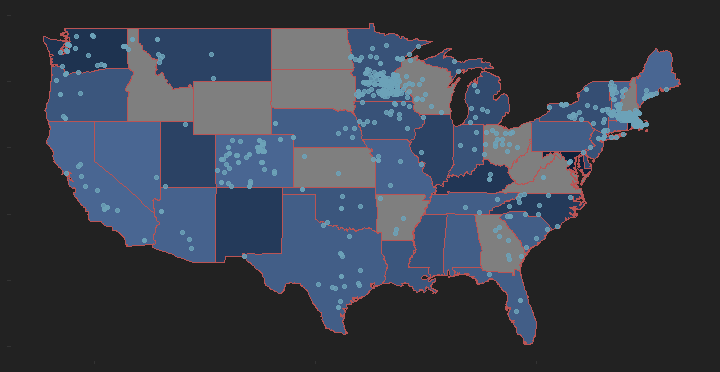
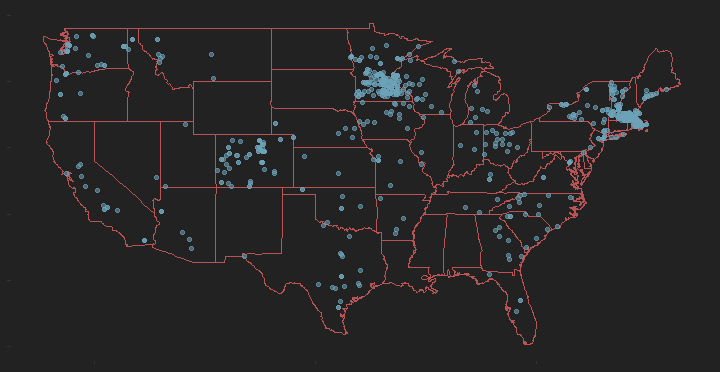
commit

diff --git a/docs/index.html b/docs/index.html
@@ -491,29 +491,6 @@ kwh_mean_state$State &lt;- tolower(kwh_mean_state$State)</code></pre>
 <li>Create custom themes (with and without legend)</li>
 </ol>
 <pre class="r"><code>#Create Custom theme 
-theme_black_nol&lt;- theme(
-  plot.background = element_rect(fill = &#39;#222222&#39;), 
-  panel.background = element_rect(fill = NA),
-  panel.border = element_rect(fill = NA), 
-  panel.grid = element_line(color = NA), 
-  axis.title = element_blank(), 
-  legend.position = &quot;none&quot;, 
-  plot.margin = unit(c(0,0,0,0),&quot;cm&quot;), 
-  axis.text = element_blank(), 
-  axis.line = element_blank()
-  )
-
-theme_black&lt;- theme(
-  plot.background = element_rect(fill = &#39;#222222&#39;), 
-  panel.background = element_rect(fill = NA),
-  panel.border = element_rect(fill = NA), 
-  panel.grid = element_line(color = NA), 
-  axis.title = element_blank(), 
-  plot.margin = unit(c(0,0,0,0),&quot;cm&quot;), 
-  axis.text = element_blank(), 
-  axis.line = element_blank()
-  )
-
 theme_black_blank&lt;- theme(
     panel.background = element_rect(fill = &quot;transparent&quot;), # bg of the panel
     plot.background = element_rect(fill = &quot;#222222&quot;, color = &quot;#222222&quot;), # bg of the plot
@@ -531,9 +508,7 @@ theme_black_blank&lt;- theme(
 <ol start="7" style="list-style-type: decimal">
 <li>Create spatial distribution plot to identify locations of projects</li>
 </ol>
-<pre class="r"><code>DSIRE_program_table1 &lt;- full_join(kwh_total_state, state_geom, by = c(&quot;State&quot; = &quot;region&quot;))
-
-#Plot just Community Locationsadd state geometry to DSIRE data to plot
+<pre class="r"><code>#Plot just Community Locationsadd state geometry to DSIRE data to plot
 plot1 &lt;- ggplot()+
   geom_polygon(data = state_geom, aes(x = long, y = lat, group = group ), fill = &#39;#222222&#39;, col = &quot;#ba5454&quot;)+
   coord_fixed(ratio = 1.2)+
@@ -561,26 +536,98 @@ plot3 &lt;- ggplot()+
   geom_point(NREL_Data, mapping = aes(x = Longitude , y = Latitude), col = &quot;#6ca2b8&quot;, alpha = .8)+
   theme_black_blank+
   scale_fill_gradient(low = &quot;#496692&quot;, high = &quot;#000E23&quot;)</code></pre>
+<ol start="10" style="list-style-type: decimal">
+<li>Create Scatter plot of Average Incentive Provided vs Total # of Installations</li>
+</ol>
+<pre class="r"><code>theme_black_scatter&lt;- theme(
+    panel.background = element_rect(fill = &quot;transparent&quot;), # bg of the panel
+    plot.background = element_rect(fill = &quot;#222222&quot;, color = &quot;#222222&quot;), # bg of the plot
+    panel.grid.major = element_blank(), # get rid of major grid
+    panel.grid.minor = element_blank(), # get rid of minor grid
+    legend.background = element_rect(fill = &quot;transparent&quot;), # get rid of legend bg
+    legend.box.background = element_rect(fill = &quot;transparent&quot;), # get rid of legend panel bg
+    panel.border = element_blank(), 
+    axis.title.x = element_text(color = &quot;white&quot;), 
+    axis.title.y = element_text(color = &quot;white&quot;),
+    axis.line = element_line(color = &quot;white&quot;),
+    axis.text.x = element_text(color = &quot;white&quot;),
+    axis.text.y = element_text(color = &quot;white&quot;),
+    legend.position = &quot;none&quot;,
+    plot.title = element_text(color = &quot;white&quot;, hjust = 0.5),
+    axis.ticks = element_line(color = &quot;white&quot;)
+) 
+
+Total_per_state &lt;- group_by(DSIRE_program_table2, State)%&gt;%
+  dplyr::summarise(Total =  n())
+
+DSIRE_program_table4 &lt;- full_join(kwh_mean_state, Total_per_state, by = c(&quot;State&quot; = &quot;State&quot;)) %&gt;%
+  filter(Average &lt; 20000)
+  
+plot4&lt;- ggplot(DSIRE_program_table4)+
+  geom_point(aes(x = Average, y = Total), col = &quot;#6ca2b8&quot;) +
+  theme_black_scatter + 
+  labs(title = &quot;Average Incentive vs Number of Installations&quot;)+
+  ylab(&quot;Total Number of Installations&quot;)+
+  xlab(&quot;Average Incentive ($)&quot;)</code></pre>
+<ol start="10" style="list-style-type: decimal">
+<li>Create Scatter plot of Total # of Incentives vs Total # of Installations</li>
+</ol>
+<pre class="r"><code>DSIRE_program_table5 &lt;- full_join(kwh_total_state, Total_per_state, by = c(&quot;State&quot; = &quot;State&quot;))
+names(DSIRE_program_table5) &lt;- c(&quot;&quot;,&quot;Total_Incentive&quot;, &quot;Total_Installation&quot;)
+
+plot5&lt;- ggplot(DSIRE_program_table5)+
+  geom_point(aes(x = Total_Incentive, y = Total_Installation), col = &quot;#6ca2b8&quot;) +
+  theme_black_scatter + 
+  labs(title = &quot;Total Number of Incentives vs Number of Installations&quot;)+
+  ylab(&quot;Number of Installations&quot;)+
+  xlab(&quot;Total Number of Incentives&quot;)</code></pre>
 <hr />
 </div>
 <div id="results" class="section level1">
 <h1>Results</h1>
-<div id="spatial-distibution-of-community-solar-installations---provided-by-nrel" class="section level3">
-<h3>Spatial Distibution of Community Solar Installations - Provided by NREL</h3>
-<p><img src="index_files/figure-html/unnamed-chunk-9-1.png" style="display: block; margin: auto;" /> <br> <br></p>
+<div id="spatial-plots" class="section level2">
+<h2>Spatial Plots</h2>
+<div id="spatial-distibution-of-community-solar-installations" class="section level3">
+<h3>Spatial Distibution of Community Solar Installations</h3>
+<p><img src="index_files/figure-html/unnamed-chunk-11-1.png" style="display: block; margin: auto;" /> <strong>Goal:</strong> Identify spatially where the installations exist.</p>
+<p><strong>Description:</strong> This plot displays community solar installations across the US.</p>
+<p><strong>Data Source:</strong> This data was retrieved from NREL. <br> <br> <br> <br></p>
 </div>
-<div id="spatial-distibution-of-community-solar-installations-w-incentives-shaded-per---provided-by-nrel-dsire-data" class="section level3">
-<h3>Spatial Distibution of Community Solar Installations w/ Incentives shaded per $ - Provided by NREL &amp; DSIRE data</h3>
-<p><img src="index_files/figure-html/unnamed-chunk-10-1.png" style="display: block; margin: auto;" /> <br> <br></p>
+<div id="spatial-distibution-of-community-solar-installations-w-incentives-shaded-per" class="section level3">
+<h3>Spatial Distibution of Community Solar Installations w/ Incentives shaded per $</h3>
+<p><img src="index_files/figure-html/unnamed-chunk-12-1.png" style="display: block; margin: auto;" /> <strong>Goal:</strong> Identify spatial relationship on where more money is awarded for incentives.</p>
+<p><strong>Description:</strong> This plot displays community solar installations across the US, with state shading representing money awarded for solar incentives. A larger amount of money provided through solar incentives is equal to a darker color.</p>
+<p><strong>Data Source:</strong> This data was retrieved from NREL &amp; DSIRE database. <br> <br> <br> <br></p>
 </div>
-<div id="spatial-distibution-of-community-solar-installations-w-incentives-shaded-per-quantity---provided-by-nrel-dsire-data" class="section level3">
-<h3>Spatial Distibution of Community Solar Installations w/ Incentives shaded per quantity - Provided by NREL &amp; DSIRE data</h3>
-<p><img src="index_files/figure-html/unnamed-chunk-11-1.png" style="display: block; margin: auto;" /></p>
+<div id="spatial-distibution-of-community-solar-installations-w-incentives-shaded-per-quantity" class="section level3">
+<h3>Spatial Distibution of Community Solar Installations w/ Incentives shaded per quantity</h3>
+<p><img src="index_files/figure-html/unnamed-chunk-13-1.png" style="display: block; margin: auto;" /> <strong>Goal:</strong> Identify spatial relationship on where more money is awarded for incentives.</p>
+<p><strong>Description:</strong> This plot displays community solar installations across the US, with state shading representing total number of solar incentives available. A larger number of solar incentives is equal to a darker color.</p>
+<p><strong>Data Source:</strong> This data was retrieved from NREL &amp; DSIRE database. <br> <br> <br> <br></p>
+</div>
+</div>
+<div id="scatter-plots" class="section level2">
+<h2>Scatter Plots</h2>
+<div id="scatter-plot-comparing-number-of-community-solar-installations-w-average-incentive-value---provided-by-nrel-dsire-data" class="section level3">
+<h3>Scatter Plot Comparing Number of Community Solar Installations w/ Average Incentive Value - Provided by NREL &amp; DSIRE data</h3>
+<p>*Note: Average Incentive &gt; 20,000 excluded <img src="index_files/figure-html/unnamed-chunk-14-1.png" style="display: block; margin: auto;" /> <strong>Goal:</strong> Identify relationship between number of solar installations and incentive value.</p>
+<p><strong>Description:</strong> By comparing both number of solar installations and average incentive value we are able to identify if there is a clear trend relating both factors.</p>
+<p><strong>Data Source:</strong> This data was retrieved from NREL &amp; DSIRE database. <br> <br> <br> <br></p>
+</div>
+<div id="scatter-plot-comparing-number-of-community-solar-installations-w-number-of-incentives---provided-by-nrel-dsire-data" class="section level3">
+<h3>Scatter Plot Comparing Number of Community Solar Installations w/ Number of Incentives - Provided by NREL &amp; DSIRE data</h3>
+<p><img src="index_files/figure-html/unnamed-chunk-15-1.png" style="display: block; margin: auto;" /> <strong>Goal:</strong> Identify relationship between number of solar installations and number of incentives.</p>
+<p><strong>Description:</strong> By comparing both number of solar installations and number of incentives we are able to identify if there is a clear trend relating both factors.</p>
+<p><strong>Data Source:</strong> This data was retrieved from NREL &amp; DSIRE database</p>
 <hr />
+</div>
 </div>
 </div>
 <div id="conclusion" class="section level1">
 <h1>Conclusion</h1>
+<p>After the analysis of the community solar projects was completed a couple conclusions could be made.</p>
+<p>1 - There was no clear correlation between the amount of money awarded for incentives and the amount of community solar projects present in a given state. As seen in the first scatter plot, displaying the number of projects vs the amount of money awarded, it is evident many of the states having a higher number of projects did not have a higher value of money awarded to them. This is expected since more frequent, lower value incentives are given will create a higher number (most likely also smaller in size) number of systems.</p>
+<p>2 - Although, not a clear trend there appears to be more correlation between number of incentives and number of installations. The second scatter plot shows this trend, showing a higher density of number of installations for values states with less than 10 incentives.</p>
 </div>
 
 <!-- give the footer some space -->
